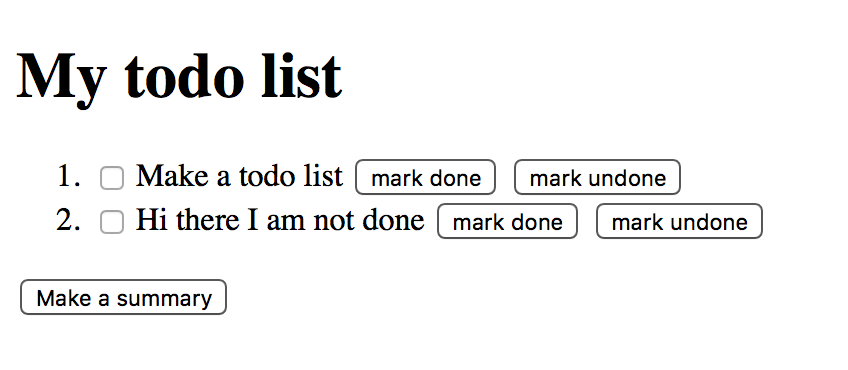
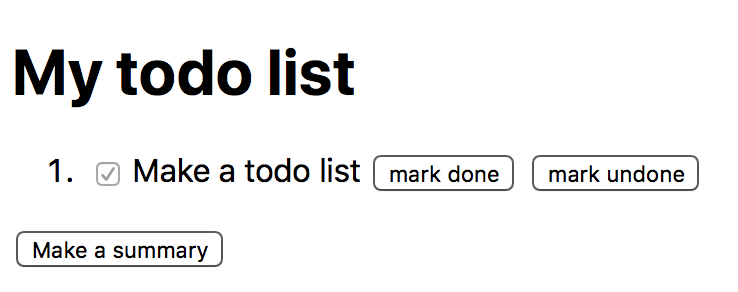
steps

diff --git a/readme.md b/readme.md
@@ -8,17 +8,27 @@ Add the first todo item. A to-do item consists of a `span` with text in it (the 
 
 ![](https://gist.githubusercontent.com/Haroenv/0c37891fa9bd96bb67534fbb081418de/raw/d8405984d85a0bef6a78eca24c8a41c3b02dbf48/1.png)
 
-There's also a second todo item with the text "hi there I am not done".
-
-![](https://gist.githubusercontent.com/Haroenv/0c37891fa9bd96bb67534fbb081418de/raw/d8405984d85a0bef6a78eca24c8a41c3b02dbf48/2.png)
-
 Finally there's also a button underneath the list to make a summary of which todos are done:
 
-![](https://gist.githubusercontent.com/Haroenv/0c37891fa9bd96bb67534fbb081418de/raw/d8405984d85a0bef6a78eca24c8a41c3b02dbf48/3.png)
+![](https://gist.githubusercontent.com/Haroenv/0c37891fa9bd96bb67534fbb081418de/raw/d8405984d85a0bef6a78eca24c8a41c3b02dbf48/2.png)
 
 Finally let's add the system fonts to our page: `-apple-system, BlinkMacSystemFont, sans-serif`
 
 ## Marking items as done
+
+If a user presses on the "mark as done" button, you should toggle the checked-ness of the checkbox. If you click done, it should look like this:
+
+![](https://gist.githubusercontent.com/Haroenv/0c37891fa9bd96bb67534fbb081418de/raw/d8405984d85a0bef6a78eca24c8a41c3b02dbf48/3.png)
+
+## Adding a second item
+
+There's also a second todo item with the text "hi there I am not done", which is added just like the first item. If you click this "mark done" button it should also work
+
+![](https://gist.githubusercontent.com/Haroenv/0c37891fa9bd96bb67534fbb081418de/raw/d8405984d85a0bef6a78eca24c8a41c3b02dbf48/4.png)
+
+They should both be able to be marked as done:
+
+![](https://gist.githubusercontent.com/Haroenv/0c37891fa9bd96bb67534fbb081418de/raw/d8405984d85a0bef6a78eca24c8a41c3b02dbf48/5.png)
 
 ## listing done items
 
